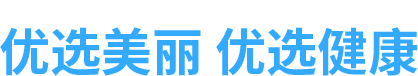
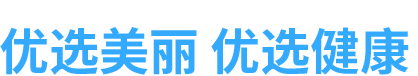
修改首页

Changed region(s): [[0.0, 0.3421, 1.0, 1.0], [0.0, 0.9737, 0.0311, 1.0], [0.0, 0.5526, 0.0311, 0.5789]]

diff --git a/src/pages/index.js b/src/pages/index.js
@@ -95,7 +95,7 @@ export default function () {
         <div className="auto-container">
           <div className={`${styles.box}`}>
             <h1 className="title">
-              <img src={require("@/assets/icon03.png")} className="pc " alt=""/>
+              <img src={require("@/assets/icon03_01.png")} className="pc " alt=""/>
                 <img src={require("@/assets/icon03_h5.png")} className="h5" alt=""/>
             </h1>
             <div className={`${styles.menuList} pc`}>
@@ -133,7 +133,7 @@ export default function () {
       <section className={`${styles.pages3} page`}>
         <div className="cn">
           <img src={require("@/assets/img001.png")} className="pc" alt=""/>
-            <img src={require("@/assets/img002.jpg")} className="h5" alt=""/>
+            <img src={require("@/assets/img002.png")} className="h5" alt=""/>
         </div>
       </section>
 

diff --git a/src/global.css b/src/global.css
@@ -847,7 +847,9 @@ fieldset[disabled] input[type="checkbox"] {
 
 
 
-
+.main-header .logo img{
+  height: 30px;
+}
 
 .clearfix:before,
 .clearfix:after{
@@ -948,9 +950,6 @@ fieldset[disabled] input[type="checkbox"] {
 .body{
   background: #f6f6f6;
 }
-.main-footer{
-  padding: 0px 0;
-}
 .m_t20{
   margin-top: 20px;
 }
@@ -960,8 +959,19 @@ fieldset[disabled] input[type="checkbox"] {
 .m_b20{
   margin-bottom: 20px;
 }
+
+.pages3 {
+  background: url(assets/bg01.png) repeat center top;
+  text-align: center;
+}
+.main-footer{
+  padding: 30px 0;
+}
 @media (max-width: 767px) {
 
+  .main-footer{
+    padding: 0px 0;
+  }
   .main-header.center{
     background: #f9f9f9;
   }

diff --git a/src/layouts/index.js b/src/layouts/index.js
@@ -102,7 +102,9 @@ function BasicLayout(props) {
             </div>
           </div>
         </div>
-        <img src={require("@/assets/img003_01.jpg")} className="h5" alt=""/>
+        <div className="pages3 h5">
+        <img src={require("@/assets/h5foimg.png")} className="h5" alt=""/>
+        </div>
       </footer>
     </div>
   );
